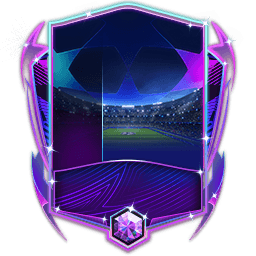
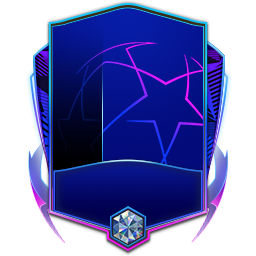
FCMSquad

diff --git a/fcmsquad/resources/faceData2.js b/fcmsquad/resources/faceData2.js
@@ -126,7 +126,7 @@ const faceData2 = [
         "images": [
             "./resources/players/players_23/p224458_FD24_LIVE_AS.png",
             "./resources/players/players_23/p224458.png",
-            "./resources/players/players_23/p224458_TOTS22_LIVE.png"
+            "./resources/players/players_22/p224458_UCL22.png"
         ]
     },
     {
@@ -1751,7 +1751,7 @@ const faceData2 = [
             "./resources/players/players_23/p231866_UCL23.png",
             "./resources/players/players_23/p231866_UCL23_TOP11.png",
             "./resources/players/players_23/p231866_TOTY23.png",
-            "./resources/players/players_23/p231866_TOTS22_LIVE.png"
+            "./resources/players/players_22/p231866_UCL22.png"
         ]
     },
     {
@@ -1945,7 +1945,7 @@ const faceData2 = [
             "./resources/players/players_23/p186942_UCL23.png",
             "./resources/players/players_23/p186942_WC.png",
             "./resources/players/players_23/p186942.png",
-            "./resources/players/players_23/p186942_TOTS22_LIVE.png"
+            "./resources/players/players_22/p186942_UCL22.png"
         ]
     },
     {
@@ -2068,7 +2068,8 @@ const faceData2 = [
             "./resources/players/players_23/p177003.png",
             "./resources/players/players_23/p177003_WC22_BASE.png",
             "./resources/players/players_22/p177003_RM22.png",
-            "./resources/players/players_23/p177003_TOTS22_LIVE.png"
+            "./resources/players/players_23/p177003_TOTS22_LIVE.png",
+            "./resources/players/players_22/p177003_UCL22.png"
         ]
     },
     {
@@ -2095,7 +2096,7 @@ const faceData2 = [
         "idx": 206,
         "pid": "210257",
         "images": [
-            "./resources/players/players_23/p210257_TOTS22_LIVE.png"
+            "./resources/players/players_22/p210257_UCL22.png"
         ]
     },
     {
@@ -2346,7 +2347,7 @@ const faceData2 = [
         "pid": "218667",
         "images": [
             "./resources/players/players_23/p218667_UCL23_TOP11.png",
-            "./resources/players/players_23/p218667_TOTS22_LIVE.png"
+            "./resources/players/players_22/p218667_UCL22.png"
         ]
     },
     {
@@ -3102,7 +3103,7 @@ const faceData2 = [
             "./resources/players/players_22/p235790_NB22_EDIT.png",
             "./resources/players/players_23/p235790_WC22_BASE.png",
             "./resources/players/players_23/p235790.png",
-            "./resources/players/players_23/p235790_TOTS22_LIVE.png"
+            "./resources/players/players_22/p235790_UCL22.png"
         ]
     },
     {
@@ -4795,7 +4796,7 @@ const faceData2 = [
             "./resources/players/players_22/p237692_TOTY.png",
             "./resources/players/players_23/p237692_WC22_BASE.png",
             "./resources/players/players_23/p237692.png",
-            "./resources/players/players_23/p237692_TOTS22_LIVE.png"
+            "./resources/players/players_22/p237692_UCL22.png"
         ]
     },
     {
@@ -5088,7 +5089,7 @@ const faceData2 = [
         "pid": "241464",
         "images": [
             "./resources/players/players_23/p241464_FD23_LIVE_AS.png",
-            "./resources/players/players_23/p241464_TOTS22_LIVE.png"
+            "./resources/players/players_22/p241464_UCL22.png"
         ]
     },
     {
@@ -5325,7 +5326,7 @@ const faceData2 = [
             "./resources/players/players_23/p200145_TOTW23.png",
             "./resources/players/players_23/p200145_WC22_BASE.png",
             "./resources/players/players_22/p200145_TT22.png",
-            "./resources/players/players_23/p200145_TOTS22_LIVE.png"
+            "./resources/players/players_22/p200145_UCL22.png"
         ]
     },
     {
@@ -6546,7 +6547,7 @@ const faceData2 = [
             "./resources/players/players_22/p216267_TOTW2.png",
             "./resources/players/players_22/p216267_TOTW1.png",
             "./resources/players/players_23/p216267_WC22_BASE.png",
-            "./resources/players/players_23/p216267_TOTS22_LIVE.png"
+            "./resources/players/players_22/p216267_UCL22.png"
         ]
     },
     {
@@ -7173,7 +7174,7 @@ const faceData2 = [
             "./resources/players/players_23/p192505.png",
             "./resources/players/players_23/p192505_WC22_BASE.png",
             "./resources/players/players_22/p192505_TT22.png",
-            "./resources/players/players_23/p192505_TOTS22_LIVE.png"
+            "./resources/players/players_22/p192505_UCL22.png"
         ]
     },
     {
@@ -7763,7 +7764,7 @@ const faceData2 = [
         "idx": 566,
         "pid": "243812",
         "images": [
-            "./resources/players/players_23/p243812_TOTS22_LIVE.png"
+            "./resources/players/players_22/p243812_UCL22.png"
         ]
     },
     {
@@ -8456,7 +8457,7 @@ const faceData2 = [
             "./resources/players/players_22/p182521_CB.png",
             "./resources/players/players_23/p182521.png",
             "./resources/players/players_22/p182521_RM22.png",
-            "./resources/players/players_23/p182521_TOTS22_LIVE.png"
+            "./resources/players/players_22/p182521_UCL22.png"
         ]
     },
     {
@@ -11848,7 +11849,8 @@ const faceData2 = [
             "./resources/players/players_22/p189596_TOTW1.png",
             "./resources/players/players_23/p189596.png",
             "./resources/players/players_23/p189596_WC22_BASE.png",
-            "./resources/players/players_23/p189596_TOTS22_LIVE.png"
+            "./resources/players/players_23/p189596_TOTS22_LIVE.png",
+            "./resources/players/players_22/p189596_UCL22.png"
         ]
     },
     {

diff --git a/fcmsquad/resources/mainData.js b/fcmsquad/resources/mainData.js
@@ -2288,8 +2288,8 @@ const cardData = [
     {idx: 14, code: "RE02", name: "Remember 2002", otherNames: ["2002", "리멤버2002", "리멤버", "RE02", "똥그리", "땡그리", "동그리", "동그랑땡"], image: "./resources/cards/Remember02.png", type: "fm", color: "white"},
     {idx: 15, code: "UCL22", name: "UCL22 그룹스테이지", otherNames: ["챔스22", "22챔스", "챔스"], image: "./resources/cards/No-Card.png", type: "fm", color: "white"},
     {idx: 16, code: "UCL22", name: "UCL22 16강", otherNames: ["챔스22", "22챔스", "챔스"], image: "./resources/cards/UCL22_16.png", type: "fm", color: "white"},
-    {idx: 17, code: "UCL22", name: "UCL22 8강", otherNames: ["챔스22", "22챔스", "챔스"], image: "./resources/cards/No-Card.png", type: "fm", color: "white"},
-    {idx: 18, code: "UCL22", name: "UCL22 4강", otherNames: ["챔스22", "22챔스", "챔스"], image: "./resources/cards/No-Card.png", type: "fm", color: "white"},
+    {idx: 17, code: "UCL22", name: "UCL22 8강", otherNames: ["챔스22", "22챔스", "챔스"], image: "./resources/cards/UCL22_8.png", type: "fm", color: "white"},
+    {idx: 18, code: "UCL22", name: "UCL22 4강", otherNames: ["챔스22", "22챔스", "챔스"], image: "./resources/cards/UCL22_4.png", type: "fm", color: "white"},
     {idx: 19, code: "UCL22", name: "UCL22 파이널", otherNames: ["챔스22", "22챔스", "챔스"], image: "./resources/cards/UCL22_Final.png", type: "fm", color: "white"},
     {idx: 20, code: "UCL22", name: "UCL22 Best", otherNames: ["22챔베", "챔베22", "챔베", "챔스", "별", "별카드", "챔스22"], image: "./resources/cards/UCL22_Best.png", type: "fm", color: "white"},
     {idx: 21, code: "TOTS22_LIVE", name: "TOTS22", otherNames: ["토츠22", "22토츠", "토츠"], image: "./resources/cards/TOTS22.png", type: "fm", color: "white"},
